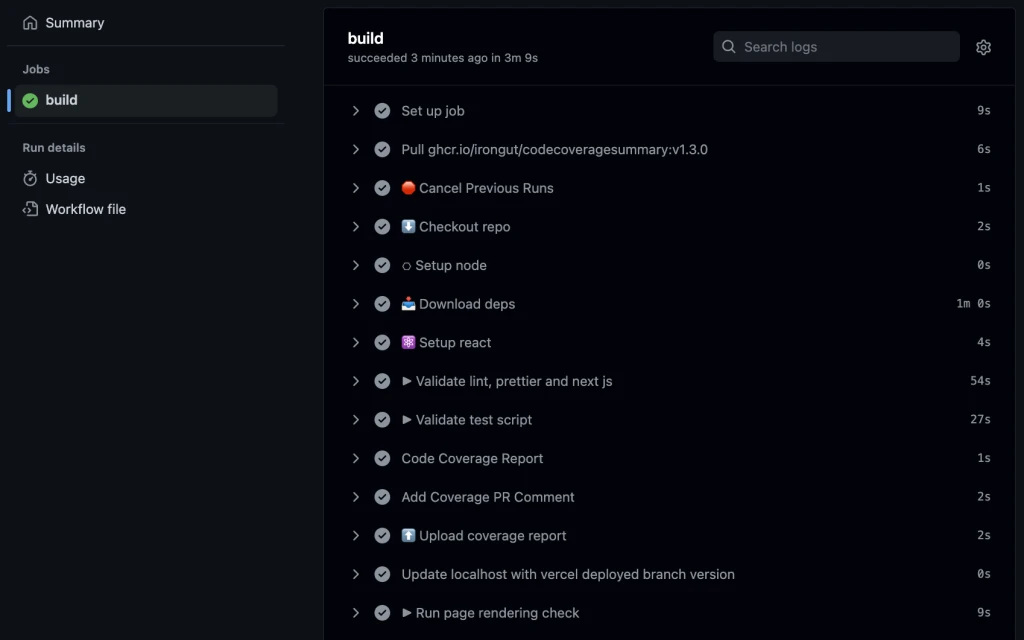
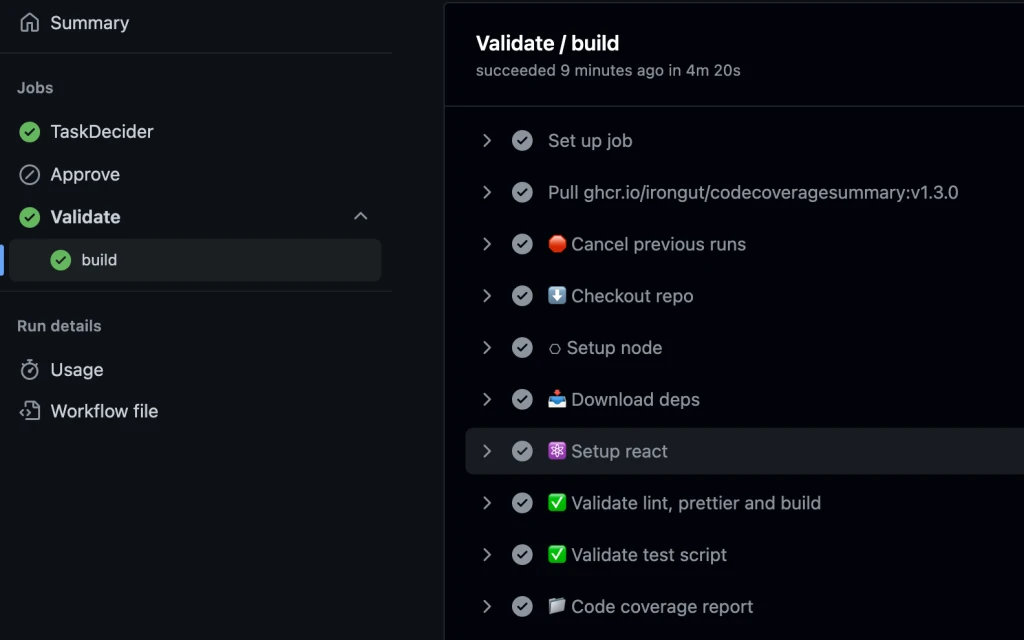
Add auto backstop approver (#104)
* Add auto backstop approver

diff --git a/pageComponents/Homepage/config.tsx b/pageComponents/Homepage/config.tsx
@@ -61,9 +61,7 @@ export const siteDevelopmentSections = [
     title: "Github Workflow",
     desc: (
       <>
-        <p>
-          During the pull-request, an automatically is carried out in order:
-        </p>
+        <p>During the pull-request, a verification is carried out in order:</p>
         <ol>
           <li>Linting, Prettifier.</li>
           <li>Type check build with NextJS.</li>
@@ -75,7 +73,7 @@ export const siteDevelopmentSections = [
     ),
     link: {
       label: "View Workflow Def.",
-      src: "//github.com/yoonghan/Walcron/blob/master/.github/workflows/validator.yml",
+      src: "//github.com/yoonghan/Walcron/blob/master/.github/workflows/pull-request.yml",
     },
     img: "/img/welcome/introduction-build-workflow.webp",
   },
@@ -84,7 +82,7 @@ export const siteDevelopmentSections = [
     title: "Testing Deployment",
     desc: (
       <p>
-        A hook was created in vercel, and it automatically builds and deploy a{" "}
+        A hook was created in vercel, that automatically builds and deploy a{" "}
         <strong>development</strong> environment version for every new commit.
       </p>
     ),
@@ -98,19 +96,20 @@ export const siteDevelopmentSections = [
         <p>A better alternative than code Snapshot sampling.</p>
         <ol>
           <li>
-            Playwright script is written to capture different mobile and desktop
-            layouts with different simulated user interactions.
+            A playwright script is written to generate reports on latest UI
+            changes, which will then run thru an approval workflow.
           </li>
           <li>
-            A report will be generated to compare against the previous version
-            layout, it will then run thru an approval workflow.
+            Implemented as well with auto approval, that autofix the snapshots
+            and revalidate the pull-request again.
           </li>
         </ol>
       </>
     ),
+
     link: {
-      label: "Generate Adhoc Snapshot",
-      src: "//github.com/yoonghan/Walcron/actions/workflows/snapshot.yml",
+      label: "View Workflow Def.",
+      src: "//github.com/yoonghan/Walcron/blob/master/.github/workflows/auto-approve.yml",
     },
     img: "/img/welcome/introduction-backstop-ui-check.webp",
   },

diff --git a/pages/experiments/storybook.tsx b/pages/experiments/storybook.tsx
@@ -21,12 +21,12 @@ function Storybook() {
         <CommandBar />
       </div>
       <div className={styles.container}>
-        <h1>Component storybook</h1>
+        <h1>Component Storybook</h1>
         <p>
-          Instead of having a dedicated storybook component, decided to have a
-          simple 1 page to render whatever i wanted to. In this way i can avoid
-          having to maintain another setup and thing can work straight out of
-          the box.
+          Instead of having a dedicated storybook component, we have decided to
+          create a simple 1 pager to render whatever we wanted to. In this way,
+          we can avoid having to maintain another setup and thing can work
+          straight out of the box.
         </p>
         <StoryMaker items={storyBookList} />
       </div>